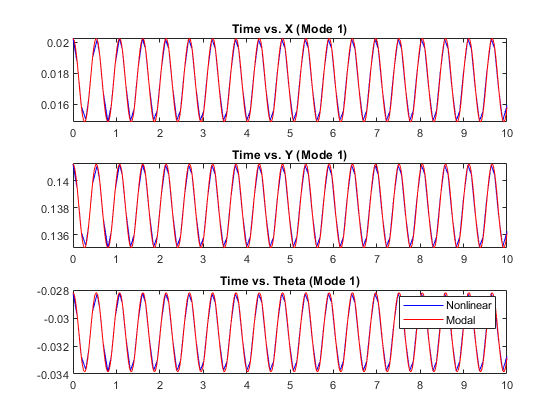
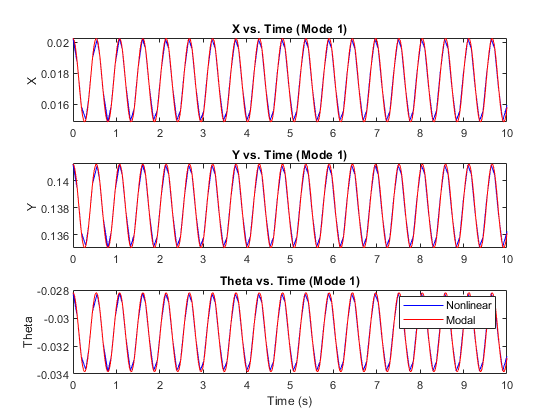
update mode plot labels

diff --git a/linearization.m b/linearization.m
@@ -92,18 +92,22 @@ subplot(3,1,1)
 plot(tlist_nonlinear, Vlist_nonlinear(1,:), 'b')
 hold on
 plot(t_list, x_modal1, 'r')
-title('Time vs. X (Mode 1)')
+ylabel('X')
+title('X vs. Time (Mode 1)')
 subplot(3,1,2)
 plot(tlist_nonlinear, Vlist_nonlinear(2,:), 'b')
 hold on
 plot(t_list, y_modal1, 'r')
-title('Time vs. Y (Mode 1)')
+ylabel('Y')
+title('Y vs. Time (Mode 1)')
 subplot(3,1,3)
 plot(tlist_nonlinear, Vlist_nonlinear(3,:), 'b')
 hold on
 plot(t_list, theta_modal1, 'r')
-title('Time vs. Theta (Mode 1)')
+ylabel('Theta')
+title('Theta vs. Time (Mode 1)')
 legend('Nonlinear', 'Modal')
+xlabel('Time (s)')
 
 % mode 2
 U_mode2 = U_mode(:,2);
@@ -128,18 +132,22 @@ subplot(3,1,1)
 plot(tlist_nonlinear, Vlist_nonlinear(1,:), 'b')
 hold on
 plot(t_list, x_modal2, 'r')
-title('Time vs. X (Mode 2)')
+ylabel('X')
+title('X vs. Time (Mode 2)')
 subplot(3,1,2)
 plot(tlist_nonlinear, Vlist_nonlinear(2,:), 'b')
 hold on
 plot(t_list, y_modal2, 'r')
-title('Time vs. Y (Mode 2)')
+ylabel('Y')
+title('Y vs. Time (Mode 2)')
 subplot(3,1,3)
 plot(tlist_nonlinear, Vlist_nonlinear(3,:), 'b')
 hold on
 plot(t_list, theta_modal2, 'r')
-title('Time vs. Theta (Mode 2)')
+ylabel('Theta')
+title('Theta vs. Time (Mode 2)')
 legend('Nonlinear', 'Modal')
+xlabel('Time (s)')
 
 % mode 3
 U_mode3 = U_mode(:,3);
@@ -164,18 +172,22 @@ subplot(3,1,1)
 plot(tlist_nonlinear, Vlist_nonlinear(1,:), 'b')
 hold on
 plot(t_list, x_modal3, 'r')
-title('Time vs. X (Mode 3)')
+ylabel('X')
+title('X vs. Time (Mode 3)')
 subplot(3,1,2)
 plot(tlist_nonlinear, Vlist_nonlinear(2,:), 'b')
 hold on
 plot(t_list, y_modal3, 'r')
-title('Time vs. Y (Mode 3)')
+ylabel('Y')
+title('Y vs. Time (Mode 3)')
 subplot(3,1,3)
 plot(tlist_nonlinear, Vlist_nonlinear(3,:), 'b')
 hold on
 plot(t_list, theta_modal3, 'r')
-title('Time vs. Theta (Mode 3)')
+ylabel('Theta')
+title('Theta vs. Time (Mode 3)')
 legend('Nonlinear', 'Modal')
+xlabel('Time (s)')
 
 %% FUNCTIONS
 %updates spring plotting object so that spring is plotted
